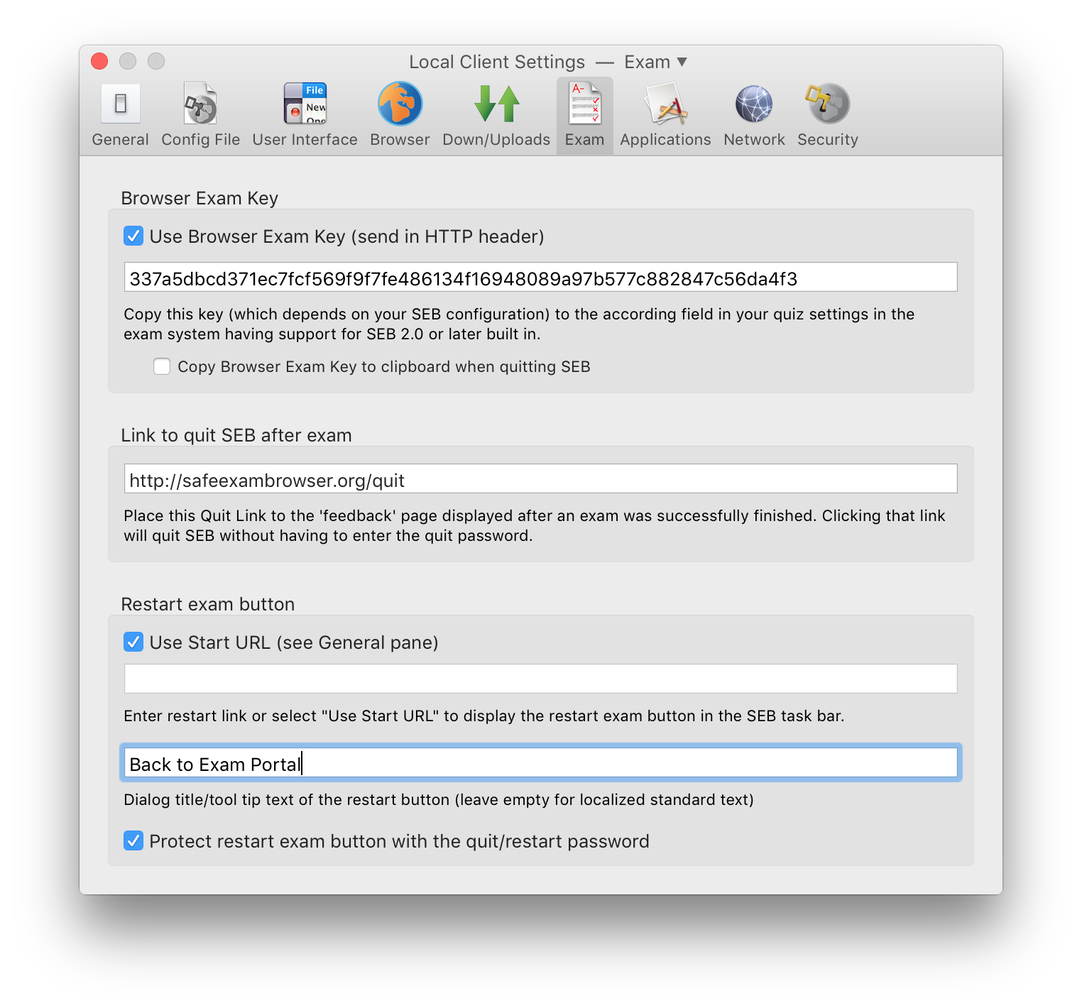
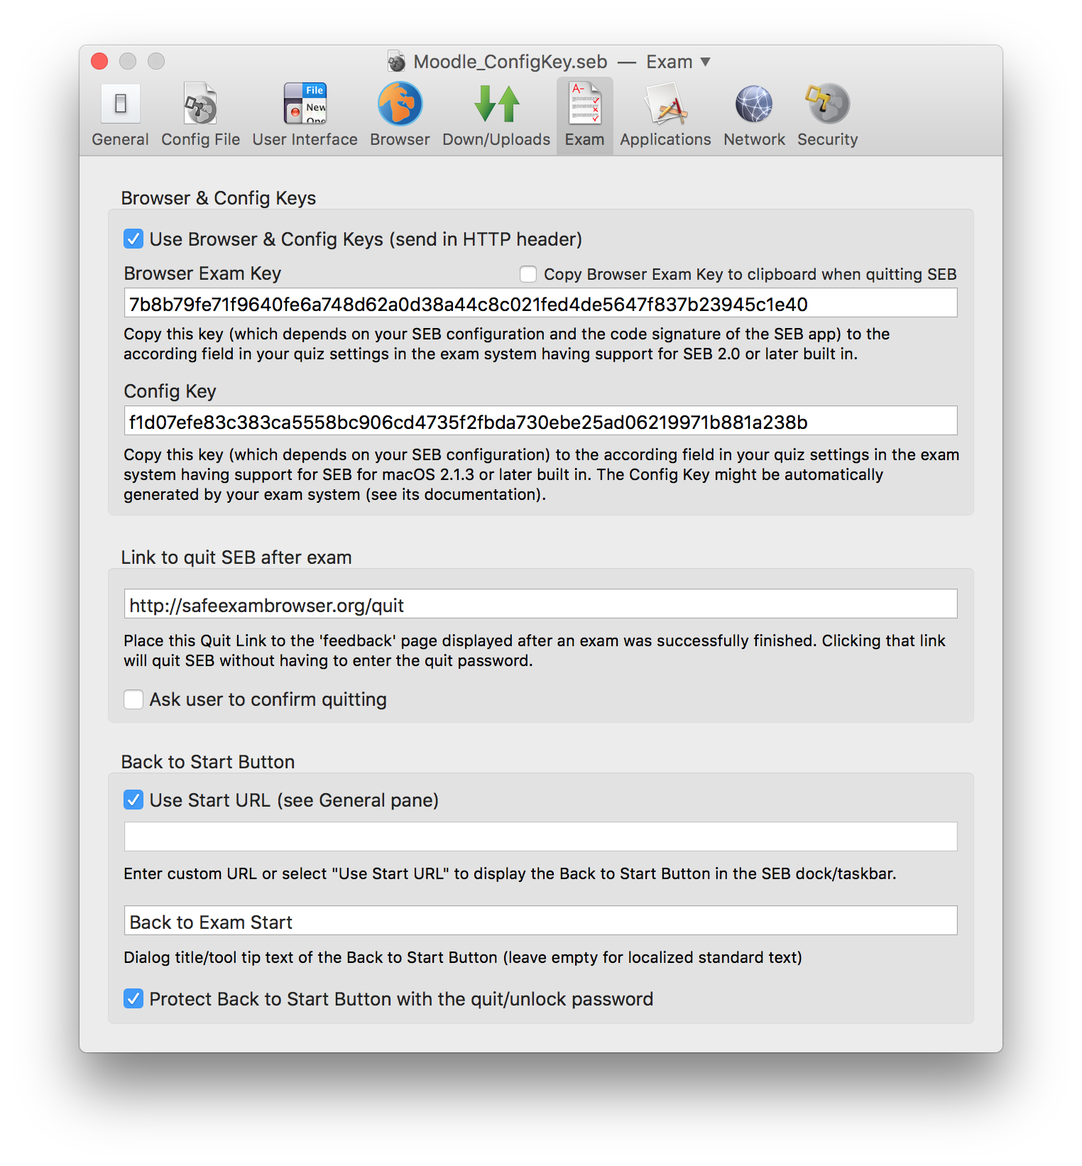
Updating macOS manual for SEB 2.1.3.

Changed region(s): [[0.0617, 0.031, 0.9252, 0.9296]]

diff --git a/macosx/mac_usermanual_en.html b/macosx/mac_usermanual_en.html
@@ -248,12 +248,25 @@
               <li> <a href="#configuration">Configuration</a>
                 <ul class="nav">
                   <li><a href="#GeneralPane">General Pane</a></li>
-                  <li><a href="#ConfigFilePane">Config File Pane</a></li>
+                  
+                  <li><a href="#ConfigFilePane">Config File Pane</a>
+                    <ul class="nav">
+                      <li><a href="#ConfigDeployment">&nbsp;&nbsp;&nbsp;Deploying Settings</a></li>
+                    </ul>
+                  </li>
+                  
                   <li><a href="#AppearancePane">User Interface Pane</a></li>
                   <li><a href="#BrowserPane">Browser Pane</a></li>
                   <li><a href="#DownUploadsPane">Down/Uploads Pane</a></li>
                   <li><a href="#ExamPane">Exam Pane</a></li>
-                  <li><a href="#ApplicationsPane">Applications Pane</a></li>
+                  
+                  <li><a href="#ApplicationsPane">Applications Pane</a>
+                    <ul class="nav">
+                      <li><a href="#PermittedProcessesSection">&nbsp;&nbsp;&nbsp;Permitted Processes Section</a></li>
+                      <li><a href="#ProhibitedProcessesSection">&nbsp;&nbsp;&nbsp;Prohibited Processes Section</a></li>
+                    </ul>
+                  </li>
+                  
                   <li><a href="#NetworkPane">Network Pane</a>
                     <ul class="nav">
                       <li><a href="#NetworkPaneFilterSection">&nbsp;&nbsp;&nbsp;Filter Section</a></li>
@@ -288,7 +301,7 @@
 
           <h2 class="page-header sebnavbar-link" id="introduction">
             <a class="anchorjs-link" href="#introduction"></a>
-            Safe Exam Browser 2.1.2 for macOS
+            Safe Exam Browser 2.1.3 for macOS
           </h2>
     
           <p>Safe Exam Browser – SEB for macOS opens a web browser window without navigation elements and locks the computer into a kiosk mode, which prevents from switching to other applications or quitting SEB untimely.<span class="half_linespace">SEB enables secure exams on unmanaged computers like students' own laptops as well as in managed environments</span>. Currently SEB integrates with the wide spread learning management systems (LMS) Moodle,  ILIAS and OpenOLAT and several non-commercial and commercial exam systems, as for example Inspera Assessment. Generally it can easily be used with most web-based online quiz and e-assessment systems.</p>
@@ -483,8 +496,8 @@
             <li><span class="quote">Confirm administrator password</span>: Retype the administrator password. As long as it's not matching the administrator password typed in the field above, <span class="quote">Please enter correct confirm password</span> is displayed below and you cannot save the preferences.</li>
             <li><span class="quote">Allow user to quit SEB</span>: If selected, Users can quit SEB with <span class="quote">cmd-Q</span> or clicking the main browser window (the one that displays the exam) close button. Otherwise you can use a quit link in your exam system, shutdown or reset the computer or use the <span class="quote">Quit</span> button in this preferences window. In a computer room in a university or school you could for example use some tool to shutdown or reboot all computers after a exam and therefore not allow students to quit SEB themselves at all. </li>
             <li><span class="quote">Ignore exit keys</span> (Win): SEB ignores the exit keys and can only be quit manually by entering the quit password. Exit keys can only be set and used in the Windows version of SEB and are considered deprecated,  the prefered way to secure SEB from being quit is the quit password.</li>
-            <li><span class="quote">Quit password</span>: This password is prompted when users try to quit SEB with <span class="quote">cmd-Q</span> or the red close button in the browser window. If no quit password is set, then SEB just prompts <span class="quote">Are you sure you want to quit SEB?</span></li>
-            <li><span class="quote">Confirm quit password</span>: Retype the quit password. As long as it's not matching the quit password typed in the field above,<span class="quote"> Please enter correct confirm password</span> is displayed below and you cannot save the preferences.</li>
+            <li><span class="quote">Quit/unlock password</span>: This password is prompted when users try to quit SEB with <span class="quote">cmd-Q</span> or the red close button in the browser window. It is also used to unlock SEB in case an event relevant for security triggered the red lock screen to be displayed. If no quit password is set, then SEB just prompts <span class="quote">Are you sure you want to quit SEB?</span></li>
+            <li><span class="quote">Confirm quit/unlock password</span>: Retype the quit password. As long as it's not matching the quit password typed in the field above,<span class="quote"> Please enter correct confirm password</span> is displayed below and you cannot save the preferences.</li>
             <li><span class="quote">About</span>: Shows a window with SEB copyright information and  version number. Click somewhere into the window to close it.</li>
             <li><span class="quote">Help-Button &quot;?&quot;</span>: Displays this manual page in a new browser window.</li>
           </ul>
@@ -494,7 +507,7 @@
             <li><span class="quote">Restart SEB</span>: Saves preferences, eventually reconfigures and restarts SEB, displaying the webpage at start URL.</li>
             <li><span class="quote">Quit</span>: Saves preferences and exits SEB.</li>
           </ul>
-          <p>You can also exit SEB while applying changed settings using the item <span class="quote">Apply and Restart SEB</span> in the <span class="quote">Settings</span> menu.</p>
+          <p>You can also exit SEB while applying changed settings using the item <span class="quote">Apply and Restart SEB</span> in the <span class="quote">Settings</span> menu (menu bar or the context menu in the Preferences window title bar clicking the triangle symbol).</p>
           
           <h4 class="seb-section-header sebnavbar-link" id="ConfigFilePane">
             <a class="anchorjs-link" href="#ConfigFilePane"></a>
@@ -533,8 +546,19 @@
           
           <p><span class="quote">Local client settings</span> are saved according to macOS standards in the user's <span class="path">Library/Preferences/</span> directory (<span class="path">~/Library/Preferences/</span>, is by default invisible in Finder). Starting SEB version 2.0, it isn't anymore possible to deploy the <span class="path">org.safeexambrowser.Safe-Exam-Browser.plist</span> file from the Preferences folder to other machines (due to stronger, individual encryption per client). Instead, either deploy and open a .seb config file saved with the option 'Use SEB settings file for ... configuring a client'. This requires user interaction, because SEB will show an alert <em>'Local settings of this SEB client have been reconfigured. Do you want to continue working with SEB now or quit?'</em> and one of the buttons 'Continue' or 'Quit' has to be clicked. As an alternative, you can use the new pre-configuration feature when deploying SEB on managed systems which works similar like in SEB for Windows (and doesn't require user interaction): </p>
           
-          <p>While starting, SEB now checks if there is a configuration file named <span class="path">SebClientSettings.seb</span> in in the Preferences folder (<span class="path">~/Library/Preferences/</span>) and reconfigures itself silently (no user feedback) to the settings in that file, then the file is deleted. This works only if the administrator password in this file matches the one set in the local settings of the SEB client or if there isn't an administrator password set yet in the local settings. This means, if the SEB clients haven't been configured before (because SEB just got installed), you can set an arbitrary administrator password in the  <em>SebClientSettings.seb</em> file. The second time you reconfigure SEB clients with this method, the administrator password in the new <em>SebClientSettings.seb</em> file has to match the one used before, otherwise the client won't be reconfigured. The file can either be unencrypted or encrypted with a password that matches the administrator password set in the local settings of the SEB client (otherwise the password to decrypt the settings file will be prompted and the user has to enter it).</p>
-          
+          <h5 class="seb-section-header sebnavbar-link" id="ConfigDeployment">
+            <a class="anchorjs-link" href="#ConfigDeployment"></a>
+            Deploying Settings to Managed Macs
+          </h5>
+
+          <p>While starting, SEB  checks if there is a configuration file named <span class="path">SEBClientSettings.seb</span> in </p>
+          <ol>
+            <li> the Preferences folder of the machine (<span class="path">/Library/Preferences/</span>), or if none is found here, then</li>
+            <li>the Preferences folder of the current user (<span class="path">~/Library/Preferences/</span>). </li>
+          </ol>
+          <p>SEB then reconfigures itself silently (no user feedback) to the settings in that file. After that, the file is deleted, if SEB has write access to it. This is usually only the case if the <em>SEBClientSettings.seb</em> file was loaded from the user's preferences folder. </p>
+          <p>This managed configuration or reconfiguration works only if the administrator password in the <em>SEBClientSettings.seb</em>file matches the one set in existing persisted local settings of the SEB client or if there isn't an administrator password set yet in the local client settings. This means, if  SEB clients haven't been configured before (because SEB just got installed), you can set an arbitrary administrator password in the <em>SEBClientSettings.seb</em> file. The second time you reconfigure SEB clients with this method, the administrator password in the new <em>SEBClientSettings.seb</em> file has to match the one used before, otherwise the client won't be reconfigured. The file can either be unencrypted or encrypted with a password that matches the administrator password set in current SEB client settings. </p>
+          <p>If the administrator  password used in the <em>SEBClientSettings.seb</em> file or the settings password used for encrypting the <em>SEBClientSettings.seb</em> file don't match the administrator password set in current client settings (if those were already set before), then reconfiguring will silently fail. In this case SEB will use previous client settings or if there were none, then the SEB default settings, which display the  info page at https://safeexambrowser.org/start. If you need to change the SEB administrator password on managed clients, you first need to reset the existing SEB user defaults (see below).</p>
           <p>In the rare case you would have a problem with the local client settings of a client computer, for example if SEB crashes after starting, you should try to reset the local client settings. Since OS X 10.9 Mavericks this isn't possible by just deleting the <em>org.safeexambrowser.Safe-Exam-Browser.plist</em> file from the <em>Preferences</em> folder, because macOS caches those preferences. Instead use the command <span class="codetext">defaults delete org.safeexambrowser.Safe-Exam-Browser</span> from the Terminal app shell. Then you should be able to start SEB again, as local settings are  reset to the default values (there will be a message displayed indicating that local client settings were reset when you start SEB).</p>
           
           <h4 class="seb-section-header sebnavbar-link" id="AppearancePane">
@@ -570,7 +594,7 @@
 
             <li><span class="quote">Main browser window size</span>: You can set the width and height of the main SEB browser window as absolute points (pixel) values or a percentage of the screen width or height.  You can enter the dimensions (in points or percent values) in the text field or select one of the predefined values in the  popdown menu. </li>
             <li><span class="quote">Main browser window horizontal positioning</span>:  You can choose how the window will be positioned horizontally if it doesn't fill the full screen width: Left, Center, Right.</li>
-            <li><span class="quote">Enable browser window toolbar</span>: Indicaties if a toolbar is displayed on top of the browser window which can also be hidden by the user if it's disturbing. The toolbar containts the back/forward browsing buttons, page and text zoom buttons (if enabled) and the reload button.<br />
+            <li><span class="quote">Enable browser window toolbar</span>: Indicates if a toolbar is displayed on top of the browser window which can also be hidden by the user if it's disturbing. The toolbar containts the back/forward browsing buttons, page and text zoom buttons (if enabled) and the reload button. In SEB for macOS the toolbar isn't displayed on the main browser window if this is set to full screen mode.<br />
             </li>
             <li><span class="quote">Hide toolbar as default</span>: After SEB starts, the browser window toolbar is hidden. Users can unhide the toolbar in the view menu or the key combination cmd-alt-T. </li>
             <li><span class="quote">Show menu bar</span>: Show the macOS menu bar to allow accessing settings like Wi-Fi and for changing keyboard layouts.</li>
@@ -619,18 +643,37 @@
             <li><span class="quote">Enable JavaScript</span>:  Please note that most modern websites need JavaScript for full functionality.</li>
             <li><span class="quote">Enable Java</span>: Enables Java Applets. Starting SEB 2.0 this option is disabled by default because Java applets are considered a potential security risk.</li>
             <li><span class="quote">Block pop-up windows</span>: Disables pop-up windows (often advertisement) opened by JavaScript without an user action such as a button click.</li>
-            <li><span class="quote">Allow browsing back/forward</span>: Disabling browsing to previously visited pages (by cmd - Cursor left) increases security, because it might be possible to leave an exam by browsing back to an external start page. </li>
+            <li><span class="quote">Allow navigating back/forward in exam</span>: Disabling browsing to previously visited pages (by cmd+Cursor left) increases security, because it might be possible to leave an exam by browsing back to an external start page.</li>
+            <li><span class="quote">Allow navigating in additional windows</span>: Disabling browsing to previously visited pages (by cmd+Cursor left) might not be desired for additional resources and other content opening in additional browser windows, therefore this separate setting.</li>
+            <li><span class="quote">Allow reload in exam</span>: You can disable reload completely (reload button in task bar, browser tool bar, iOS side slider menu, keyboard shortcut cmd+R/F5 on Windows) with this setting, as  offline caching in some e-assessment systems might break when the user tries to reload a page without internet connection.</li>
+            <li><span class="quote">Allow reload in additional windows</span>:  For additional resources and other content opening in additional browser windows reload can be enabled/disabled separately with this setting.</li>
+            <li><span class="quote">Show reload warning in exam</span>: SEB shows a warning asking the user to confirm reloading the main browser containing the exam.</li>
+            <li><span class="quote">Show reload warning in additional windows</span>: You can disable/enable the reload warning for additional resources and other content opening in additional browser windows separately.</li>
             <li><span class="quote">Remove profile (Win)</span>: Removes XULRunner browser profile (containing caches and also local storage) when quitting SEB.</li>
-            <li><span class="quote">Disable local storage (Mac)</span>: Local storage (which is stored per origin, e.g. the combination of protocol, hostname, and port number as defined in the same origin policy) is meant to persist after a browser is closed. This might be a security issue though if you don't know how securely an exam system is handling information in localStorage. If your web application uses local storage, you have to be sure data is saved encrypted and removed when no longer needed as SEB doesn't remove local storage itself.</li>
-            <li><span class="quote">User agent</span>: Choose browser agent settings for SEB running on various operating systems and device types
-              <ul id="seblist">
-                <li><span class="quote">Default</span>: Default user agent string on this Mac (it depends on installed Safari/WebKit version and therefore can differ on exam clients!)</li>
-                <li><span class="quote">Custom</span>: Enter a custom user agent string (SEB appends its version number automatically)</li>
-              </ul>
-            </li>
-            <li><span class="quote">Use SEB without browser window</span>: If you intend to use another application for an exam and don't need to display any web content on the exam client, you can switch off the SEB browser with this option. Don't try to disable XULRunner in the <span class="quote">Application -&gt; Permitted Processes</span> tab, that isn't necessary when using this option. <strong>This feature is not yet available in SEB 2.1.2.</strong></li>
+            <li><span class="quote">Disable local storage (Mac)</span>: Local storage (which is stored per origin, e.g. the combination of protocol, hostname, and port number as defined in the same origin policy) is meant to persist after a browser is closed. This might be a security issue though if you don't know how securely an exam system is handling information in localStorage. If your web application uses local storage, you have to be sure data is saved encrypted and removed when no longer needed as SEB doesn't remove local storage itself.            </li>            
           </ul>
           
+          <h5>User Agent Settings</h5>
+          
+          <ul>
+            <li><span class="quote">Suffix to be added to any user agent</span>: Enter a string here which will be appended to any user agent string (independent from the other user agent settings below).</li>
+            <li><span class="quote">Standard user agent</span>: Choose browser agent settings for SEB running on various operating systems and device types
+              <ul id="seblist3">
+                <li><span class="quote">Default</span>: Default user agent string on this Mac (it depends on installed Safari/WebKit version and therefore can differ on exam clients!)</li>
+                <li><span class="quote">Custom</span>: Enter a custom user agent string (SEB appends its version number automatically)            </li>
+              </ul>
+            </li>
+            <li><span class="quote">Win: User agent for desktop mode</span>: Allows to switch between the default and a custom browser user agent string for SEB Windows running in  desktop mode. SEB appends its version number automatically to the selected user agent string.</li>
+            <li><span class="quote">Win: User agent for touch/tablet mode</span>: Allows to switch between the default, an iPad-like and a custom browser user agent string for SEB Windows running in  the touch optimized mode (on tablet computers). SEB appends its version number automatically to the selected user agent string.
+              <ul>
+                <li><span class="quote">iPad</span>: Use an iPad-like user agent string for the touch optimized/tablet mode, as many mobile optimized websites recognize this user agent, but not the Windows tablet touch user agent. </li>
+              </ul>
+            </li>
+          </ul>
+          <ul>
+            <li><span class="quote">Use SEB without browser window</span>: If you intend to use another application for an exam and don't need to display any web content on the exam client, you can switch off the SEB browser with this option. Don't try to disable XULRunner in the <span class="quote">Application -&gt; Permitted Processes</span> tab, that isn't necessary when using this option. <strong>This feature is not yet available in SEB 2.1.3.</strong></li>
+          </ul>
+
           <h4 class="seb-section-header sebnavbar-link" id="DownUploadsPane">
             <a class="anchorjs-link" href="#DownUploadsPane"></a>
             Settings in the Down/Uploads Pane
@@ -688,10 +731,13 @@
             clients.      </li>
           </ul>
           
-          <h5 class="seb-section-header sebnavbar-link">Permitted Processes Section</h5>
+          <h5 class="seb-section-header sebnavbar-link" id="PermittedProcessesSection">
+            <a class="anchorjs-link" href="#PermittedProcessesSection"></a>
+            Permitted Processes Section
+          </h5>
           
           <p>Third party applications and processes which are permitted to run during an exam. Permitted applications show up in the application chooser, they can be used during an exam in addition to the SEB browser. </p>
-          <p><strong>Using permitted processes is not yet functional in SEB 2.1.2 for macOS</strong>. You can define and edit permitted processes for SEB for Windows here.</p>
+          <p><strong>Using permitted processes is not yet functional in SEB 2.1.3 for macOS</strong>. You can define and edit permitted processes for SEB for Windows here.</p>
           
           <div class="mac_prefs_screenshot">
             <img class="img-responsive" src="images/SEB_PreferencesApplications-PermittedProcesses-2.0-en.png" width="762" alt="SEB Preferences Window Applications Pane, Permitted Processes Tab" />
@@ -709,7 +755,7 @@
             <li><span class="quote">Choose Process...</span> For choosing a running process which will be added to the list of permitted processes.</li> -->
           </ul>
           
-          <p class="seb-section-header quote">Selected Process details:</p>
+          <p class="seb-section-header quote">Selected Process Details:</p>
           
           <ul id="seblist">
             <li><span class="quote">Active</span>: Indicates if this permitted process item is active (can be used while testing).</li>
@@ -734,11 +780,14 @@
           
           <p>Java applications (like OpenOffice) can  be used as permitted processes, but require specific settings: The title of their main window must be defined in  the field <span class="quote">Permitted Processes -&gt; Identifier</span> (for example &quot;OpenOffice Calc&quot;), the required main executable in <span class="quote">Permitted Processes -&gt; Executable</span> (&quot;scalc.exe&quot;) and the process which is actually handling the main window in <span class="quote">Permitted Processes -&gt; Window Handling Process(es)</span> (&quot;soffice.bin&quot;). For this example the executable path should be entered as &quot;program&quot; in <span class="quote">Permitted Processes -&gt; Path</span>, as that is the relative path to the main executable from the OpenOffice main directory, which is registered in Windows <span class="quote">App Paths</span>.</p>
           
-          <h5 class="seb-section-header sebnavbar-link">Prohibited Processes Section</h5>
+          <h5 class="seb-section-header sebnavbar-link" id="ProhibitedProcessesSection">
+            <a class="anchorjs-link" href="#ProhibitedProcessesSection"></a>
+            Prohibited Processes Section
+          </h5>
       
           <p>List of processes which are prohibited to run during an exam  when <span class="quote">monitor processes</span> is enabled. This prohibited list of processes makes sense because SEB  usually allows to run system processes (SEB for macOS allows all processes and applications signed by Apple to run), but some of them might not be wanted during an exam. With prohibited processes you can prevent some specific background processes and applications from running together with SEB. Use this with care, test if the system continues to run safely when the prohibited processes are killed by SEB.</p>
           
-          <p><strong>Using prohibited processes is not yet functional in SEB 2.1.2 for macOS</strong>. You can define and edit permitted processes for the Windows version of SEB here.</p>
+          <p><strong>Using prohibited processes is not yet functional in SEB 2.1.3 for macOS</strong>. You can define and edit permitted processes for the Windows version of SEB here.</p>
           
           <div class="mac_prefs_screenshot">
             <img class="img-responsive" src="images/SEB_PreferencesApplications-ProhibitedProcesses-2.0-en.png" width="762" alt="SEB Preferences Window Applications Pane, Prohibited Processes Tab" />
@@ -749,7 +798,7 @@
                 <li><span class="quote">Choose Process...</span> For choosing a running process which will be added to the list of prohibited processes.</li>
            </ul> -->
               
-          <p class="quote">Selected Process details:</p>
+          <p class="quote">Selected Process Details:</p>
           
           <ul id="seblist">
             <li><span class="quote">Active</span>: Indicates if this prohibited process item is active.</li>
@@ -869,7 +918,7 @@ certificates extend the system trust store (as if you had manually added them to
             Proxies Section
           </h5>
           
-          <p>In this pane you can configure proxy settings for the exam client computers which  override the system's proxy settings on the clients. <strong>Using those SEB proxy settings is not available in SEB 2.1.2 for macOS</strong>, you have to set proxy settings in System Preferences / Network on each client computer. SEB 2.1 and newer for Windows  supports  individual proxy settings which you can configure here.</p>
+          <p>In this pane you can configure proxy settings for the exam client computers which  override the system's proxy settings on the clients. <strong>Using those SEB proxy settings is not available in SEB 2.1.3 for macOS</strong>, you have to set proxy settings in System Preferences / Network on each client computer. SEB 2.1 and newer for Windows  supports  individual proxy settings which you can configure here.</p>
           
           <div class="mac_prefs_screenshot">
             <img class="img-responsive" src="images/SEB_PreferencesNetwork-Proxies-2.0-en.png" width="762" alt="SEB Preferences Window Network Pane, Proxies Tab" />
